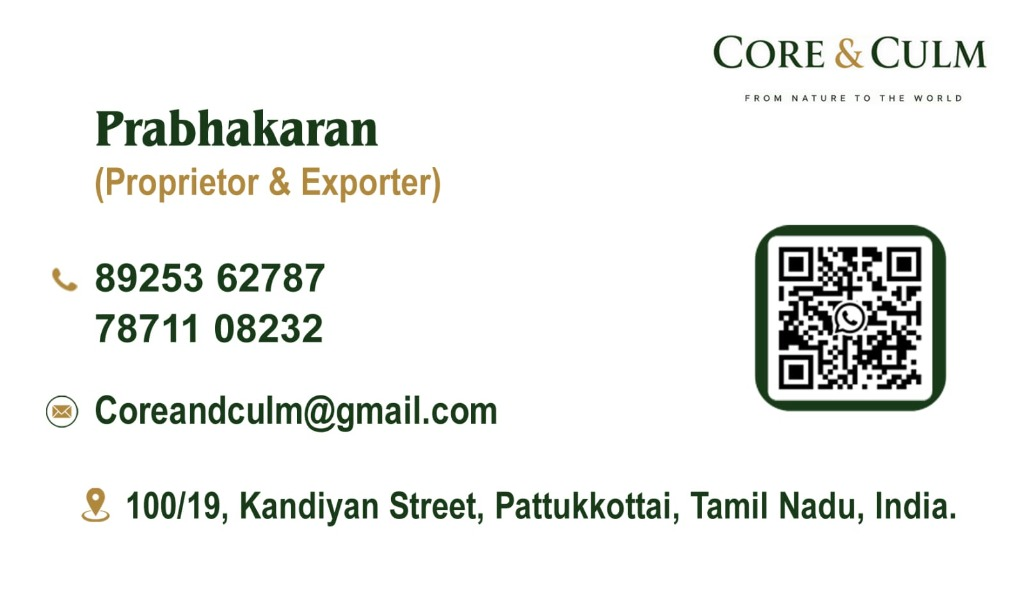
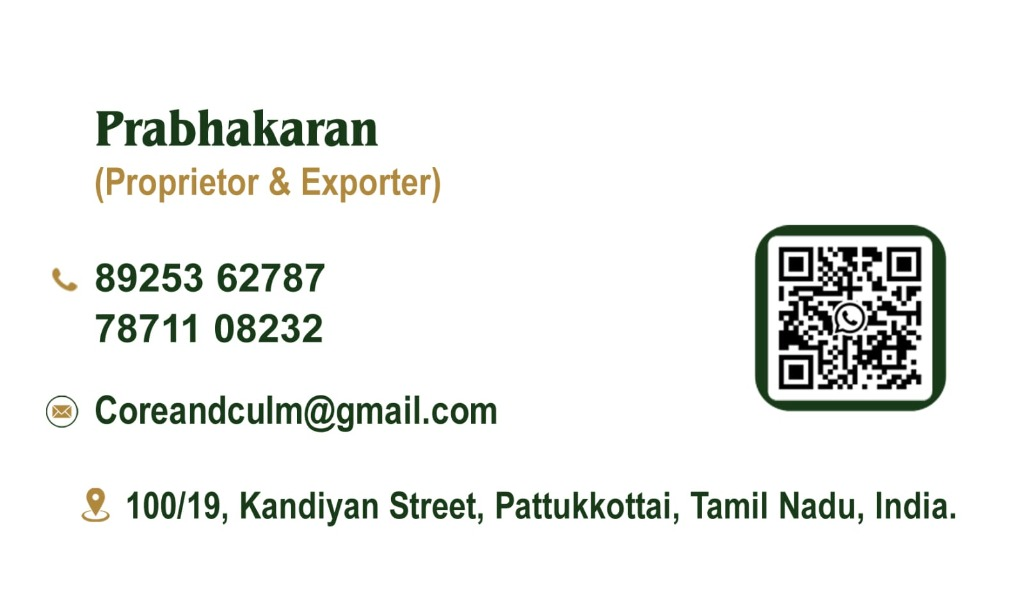
Update theme to luxury Agro-Export style and remove GST text

Changed region(s): [[0.6875, 0.0602, 0.9688, 0.1204], [0.7188, 0.1505, 0.9375, 0.1806]]

diff --git a/src/components/AboutView.tsx b/src/components/AboutView.tsx
@@ -2,7 +2,21 @@
 
 import React from 'react';
 import { CONTACT_INFO } from '@/data/shipyonData';
-import { Compass, Target, ShieldCheck, Award, MapPin } from 'lucide-react';
+import {
+  Compass,
+  Target,
+  ShieldCheck,
+  Award,
+  MapPin,
+  Phone,
+  Mail,
+  CheckCircle2,
+  Globe2,
+  Anchor,
+  MessageCircle,
+  ArrowRight,
+  Sprout,
+} from 'lucide-react';
 
 interface AboutViewProps {
   onNavigate: (page: string) => void;
@@ -10,78 +24,122 @@ interface AboutViewProps {
 
 export const AboutView: React.FC<AboutViewProps> = ({ onNavigate }) => {
   return (
-    <div className="pt-28 pb-20 bg-[#F8F5F0]">
+    <div className="pt-28 pb-24 bg-gradient-to-b from-slate-50 via-emerald-50/20 to-slate-50 relative overflow-hidden">
+      {/* Decorative ambient background glows */}
+      <div className="absolute top-10 left-1/2 -translate-x-1/2 w-[800px] h-[400px] bg-gradient-to-b from-emerald-200/20 to-transparent rounded-full blur-3xl pointer-events-none -z-10" />
+      <div className="absolute top-96 right-0 w-[500px] h-[500px] bg-emerald-100/30 rounded-full blur-3xl pointer-events-none -z-10" />
+
       {/* Page Hero */}
       <div className="max-w-7xl mx-auto px-4 sm:px-6 lg:px-8 mb-16">
         <div className="text-center max-w-3xl mx-auto">
-          <div className="inline-flex items-center gap-2 px-3.5 py-1.5 rounded-full bg-brand-100 text-brand-800 text-xs font-bold uppercase tracking-wider mb-4">
-            <span className="w-2 h-2 rounded-full bg-brand-600" />
-            <span>About CORE &amp; CULM™</span>
+          <div className="inline-flex items-center gap-2 px-4 py-1.5 rounded-full bg-emerald-50 border border-emerald-200/80 shadow-sm text-emerald-800 text-xs font-bold uppercase tracking-wider mb-5">
+            <span className="relative flex h-2 w-2">
+              <span className="animate-ping absolute inline-flex h-full w-full rounded-full bg-emerald-400 opacity-75"></span>
+              <span className="relative inline-flex rounded-full h-2 w-2 bg-emerald-600"></span>
+            </span>
+            <span>About CORE &amp; CULM™ &bull; Pattukkottai Global Desk</span>
           </div>
-          <h1 className="text-4xl sm:text-5xl font-black text-slate-900 tracking-tight mb-4">
-            Nature&apos;s Strength. <span className="text-brand-600">Global Reach.</span>
+
+          <h1 className="text-4xl sm:text-5xl lg:text-6xl font-black text-slate-900 tracking-tight mb-5 leading-tight">
+            Nature&apos;s Strength.{' '}
+            <span className="bg-gradient-to-r from-emerald-600 via-teal-600 to-amber-600 bg-clip-text text-transparent">
+              Global Reach.
+            </span>
           </h1>
+
           <p className="text-base sm:text-lg text-slate-600 leading-relaxed font-normal">
-            Rooted in the agricultural heartland of <strong>Pattukkottai, Tamil Nadu</strong>, CORE &amp; CULM was founded to bridge local farmers directly to international container vessels.
+            Rooted in the agricultural heartland of{' '}
+            <strong className="text-slate-900 font-semibold">Pattukkottai, Tamil Nadu</strong>, CORE &amp; CULM was founded to bridge heritage growers directly to international container vessels across 50+ destination ports worldwide.
           </p>
         </div>
       </div>
 
-      {/* Official Business Presentation */}
-      <div className="max-w-5xl mx-auto px-4 sm:px-6 lg:px-8 mb-20">
-        <div className="rounded-3xl overflow-hidden shadow-2xl border-4 border-white bg-white">
-          <img
-            src={CONTACT_INFO.images.brandBanner}
-            alt="CORE & CULM Brand Presentation"
-            className="w-full h-auto object-cover"
-          />
+      {/* Official Business Presentation Banner */}
+      <div className="max-w-5xl mx-auto px-4 sm:px-6 lg:px-8 mb-24">
+        <div className="relative group">
+          {/* Ambient light glow behind the card */}
+          <div className="absolute -inset-1 bg-gradient-to-r from-emerald-500/25 via-teal-500/20 to-amber-500/25 rounded-3xl blur-2xl opacity-70 group-hover:opacity-100 transition duration-1000 -z-10" />
+
+          {/* Presentation Card */}
+          <div className="rounded-3xl overflow-hidden shadow-2xl border border-slate-200/90 bg-white p-2 sm:p-4 transition-all duration-300">
+            <div className="relative rounded-2xl overflow-hidden bg-white">
+              <img
+                src={CONTACT_INFO.images.brandBanner}
+                alt="CORE & CULM Brand Presentation"
+                className="w-full h-auto object-cover transform hover:scale-[1.01] transition-transform duration-500"
+              />
+            </div>
+
+            {/* Quality Commitment Ribbon */}
+            <div className="mt-3 pt-3 border-t border-slate-100 grid grid-cols-2 sm:grid-cols-4 gap-3 px-2 text-center">
+              <div className="flex items-center justify-center gap-1.5 text-xs font-semibold text-slate-700 py-1">
+                <Sprout className="w-4 h-4 text-emerald-600 flex-shrink-0" />
+                <span>Direct Farm Sourcing</span>
+              </div>
+              <div className="flex items-center justify-center gap-1.5 text-xs font-semibold text-slate-700 py-1">
+                <ShieldCheck className="w-4 h-4 text-emerald-600 flex-shrink-0" />
+                <span>100% Export Grade</span>
+              </div>
+              <div className="flex items-center justify-center gap-1.5 text-xs font-semibold text-slate-700 py-1">
+                <Anchor className="w-4 h-4 text-emerald-600 flex-shrink-0" />
+                <span>Ocean Freight Ready</span>
+              </div>
+              <div className="flex items-center justify-center gap-1.5 text-xs font-semibold text-slate-700 py-1">
+                <Globe2 className="w-4 h-4 text-emerald-600 flex-shrink-0" />
+                <span>Worldwide Delivery</span>
+              </div>
+            </div>
+          </div>
         </div>
       </div>
 
       {/* Vision & Mission Panes */}
-      <div className="max-w-7xl mx-auto px-4 sm:px-6 lg:px-8 mb-20">
+      <div className="max-w-7xl mx-auto px-4 sm:px-6 lg:px-8 mb-24">
         <div className="grid grid-cols-1 md:grid-cols-2 gap-8">
           {/* Vision */}
-          <div className="p-8 sm:p-10 rounded-3xl bg-white border border-slate-200/80 shadow-lg flex flex-col justify-between">
+          <div className="p-8 sm:p-10 rounded-3xl bg-white/90 backdrop-blur-md border border-slate-200/80 shadow-lg hover:shadow-xl hover:border-emerald-300/80 transition-all duration-300 flex flex-col justify-between group">
             <div>
-              <div className="w-14 h-14 rounded-2xl bg-brand-50 text-brand-700 flex items-center justify-center mb-6">
+              <div className="w-14 h-14 rounded-2xl bg-gradient-to-br from-emerald-50 to-emerald-100 text-emerald-700 flex items-center justify-center mb-6 shadow-sm border border-emerald-200/60 group-hover:scale-105 transition-transform">
                 <Compass className="w-7 h-7" />
               </div>
-              <span className="text-xs font-bold uppercase tracking-widest text-brand-600">
+              <span className="text-xs font-bold uppercase tracking-widest text-emerald-700">
                 Our Vision
               </span>
               <h3 className="text-2xl font-black text-slate-900 mt-1 mb-4">
                 Redefining Agricultural Exports from South India
               </h3>
-              <p className="text-sm text-slate-600 leading-relaxed">
-                To establish South Indian agricultural commodities—especially Pattukkottai matured coconuts, shallots, spices, and coir—as world-class export benchmarks through unyielding quality assurance and direct farm partnerships.
+              <p className="text-sm text-slate-600 leading-relaxed font-normal">
+                To establish South Indian agricultural commodities—especially Pattukkottai matured coconuts, shallots, spices, and coir—as world-class export benchmarks through unyielding quality assurance, cold-chain integrity, and direct farm partnerships.
               </p>
             </div>
-            <div className="mt-8 pt-4 border-t border-slate-100 flex items-center gap-2 text-xs font-semibold text-slate-500">
-              <ShieldCheck className="w-4 h-4 text-brand-600" />
+            <div className="mt-8 pt-4 border-t border-slate-100 flex items-center gap-2 text-xs font-semibold text-emerald-800">
+              <ShieldCheck className="w-4 h-4 text-emerald-600" />
               <span>100% Farm-to-Freight Traceability</span>
             </div>
           </div>
 
           {/* Mission */}
-          <div className="p-8 sm:p-10 rounded-3xl bg-slate-900 text-white shadow-xl flex flex-col justify-between">
-            <div>
-              <div className="w-14 h-14 rounded-2xl bg-brand-500 text-slate-950 flex items-center justify-center mb-6 font-bold">
+          <div className="p-8 sm:p-10 rounded-3xl bg-gradient-to-br from-[#064E3B] via-[#022C22] to-[#011C15] text-white shadow-2xl border border-emerald-800/40 hover:border-emerald-500/50 transition-all duration-300 flex flex-col justify-between relative overflow-hidden group">
+            {/* Subtle inner radial glow */}
+            <div className="absolute -top-24 -right-24 w-64 h-64 bg-emerald-500/15 rounded-full blur-3xl pointer-events-none" />
+
+            <div className="relative z-10">
+              <div className="w-14 h-14 rounded-2xl bg-emerald-500/20 border border-emerald-400/30 text-emerald-300 flex items-center justify-center mb-6 shadow-sm group-hover:scale-105 transition-transform">
                 <Target className="w-7 h-7" />
               </div>
-              <span className="text-xs font-bold uppercase tracking-widest text-brand-400">
+              <span className="text-xs font-bold uppercase tracking-widest text-amber-400">
                 Our Mission
               </span>
               <h3 className="text-2xl font-black text-white mt-1 mb-4">
                 Seamless Global Supply Chains for Every Harvest
               </h3>
-              <p className="text-sm text-slate-300 leading-relaxed">
+              <p className="text-sm text-slate-300 leading-relaxed font-normal">
                 To eliminate intermediary delays, enforce cold-chain integrity from farm packing houses to maritime container terminals, and provide transparent FOB / CIF agreements to global food processors and distributors.
               </p>
             </div>
-            <div className="mt-8 pt-4 border-t border-slate-800 flex items-center gap-2 text-xs font-semibold text-brand-300">
-              <Award className="w-4 h-4 text-brand-400" />
-              <span>APEDA, FSSAI &amp; Spices Board Compliance</span>
+            <div className="mt-8 pt-4 border-t border-slate-800 flex items-center gap-2 text-xs font-semibold text-emerald-300 relative z-10">
+              <Award className="w-4 h-4 text-amber-400" />
+              <span>APEDA, FSSAI, Spices Board &amp; DGFT Compliance</span>
             </div>
           </div>
         </div>
@@ -89,8 +147,8 @@ export const AboutView: React.FC<AboutViewProps> = ({ onNavigate }) => {
 
       {/* Leadership Profile: Prabhakaran */}
       <div className="max-w-5xl mx-auto px-4 sm:px-6 lg:px-8">
-        <div className="p-8 sm:p-12 rounded-3xl bg-white border border-slate-200/90 shadow-xl flex flex-col md:flex-row items-center gap-8">
-          <div className="w-full md:w-1/2 rounded-2xl overflow-hidden shadow-md border border-slate-100">
+        <div className="p-8 sm:p-12 rounded-3xl bg-white border border-slate-200/90 shadow-xl flex flex-col md:flex-row items-center gap-10 hover:shadow-2xl transition-all duration-300">
+          <div className="w-full md:w-1/2 rounded-2xl overflow-hidden shadow-md border border-slate-100 bg-white">
             <img
               src={CONTACT_INFO.images.businessCard}
               alt="Prabhakaran Business Card"
@@ -99,33 +157,59 @@ export const AboutView: React.FC<AboutViewProps> = ({ onNavigate }) => {
           </div>
 
           <div className="w-full md:w-1/2 flex flex-col">
-            <span className="text-xs font-bold uppercase tracking-widest text-brand-600 mb-1">
-              Leadership &amp; Founder
-            </span>
+            <div className="inline-flex items-center gap-2 text-xs font-bold uppercase tracking-widest text-emerald-700 mb-1">
+              <Award className="w-4 h-4 text-amber-500" />
+              <span>Leadership &amp; Founder</span>
+            </div>
             <h2 className="text-3xl font-black text-slate-900 mb-1">
               {CONTACT_INFO.proprietor}
             </h2>
-            <span className="text-sm font-semibold text-brand-700 mb-4">
+            <span className="text-sm font-semibold text-emerald-700 mb-4">
               {CONTACT_INFO.designation} &bull; CORE &amp; CULM™
             </span>
-            <p className="text-xs sm:text-sm text-slate-600 leading-relaxed mb-6">
+            <p className="text-xs sm:text-sm text-slate-600 leading-relaxed mb-6 font-normal">
               Leading the company with deep agricultural roots in Pattukkottai and Thanjavur. Overseeing direct sourcing from grower cooperatives, strict phytosanitary audits, container stuffing, and maritime coordination.
             </p>
 
-            <div className="space-y-2 text-xs text-slate-700 pt-4 border-t border-slate-100">
-              <div><strong>Registered Office:</strong> {CONTACT_INFO.address.fullText}</div>
-              <div><strong>GSTIN:</strong> <span className="font-mono font-bold text-brand-700">{CONTACT_INFO.gst}</span></div>
-              <div><strong>Phones:</strong> {CONTACT_INFO.phones[0].number} / {CONTACT_INFO.phones[1].number}</div>
-              <div><strong>Email:</strong> {CONTACT_INFO.emails[0]}</div>
+            <div className="space-y-2.5 text-xs text-slate-700 pt-4 border-t border-slate-100">
+              <div className="flex items-start gap-2">
+                <MapPin className="w-4 h-4 text-emerald-600 flex-shrink-0 mt-0.5" />
+                <span><strong>Registered Office:</strong> {CONTACT_INFO.address.fullText}</span>
+              </div>
+              <div className="flex items-center gap-2">
+                <ShieldCheck className="w-4 h-4 text-emerald-600 flex-shrink-0" />
+                <span><strong>Certifications:</strong> APEDA &bull; FSSAI &bull; Spices Board &bull; DGFT</span>
+              </div>
+              <div className="flex items-center gap-2">
+                <Phone className="w-4 h-4 text-emerald-600 flex-shrink-0" />
+                <span><strong>Direct Lines:</strong> {CONTACT_INFO.phones[0].number} / {CONTACT_INFO.phones[1].number}</span>
+              </div>
+              <div className="flex items-center gap-2">
+                <Mail className="w-4 h-4 text-emerald-600 flex-shrink-0" />
+                <span><strong>Email:</strong> {CONTACT_INFO.emails[0]}</span>
+              </div>
             </div>
 
-            <div className="mt-6">
+            <div className="mt-8 flex flex-wrap items-center gap-3">
               <button
                 onClick={() => onNavigate('contact')}
-                className="px-6 py-2.5 rounded-xl font-bold text-xs bg-brand-600 hover:bg-brand-700 text-white shadow-md transition-all"
+                className="px-6 py-2.5 rounded-xl font-bold text-xs bg-emerald-600 hover:bg-emerald-700 text-white shadow-md hover:shadow-lg transition-all flex items-center gap-1.5"
               >
-                Get in Touch with Prabhakaran
+                <span>Connect with Prabhakaran</span>
+                <ArrowRight className="w-3.5 h-3.5" />
               </button>
+
+              <a
+                href={`https://wa.me/${CONTACT_INFO.whatsapp}?text=${encodeURIComponent(
+                  'Hello Prabhakaran (CORE & CULM), I would like to inquire about agricultural export commodities.'
+                )}`}
+                target="_blank"
+                rel="noopener noreferrer"
+                className="px-4 py-2.5 rounded-xl font-bold text-xs bg-emerald-50 hover:bg-emerald-100 text-emerald-800 border border-emerald-200/80 shadow-sm transition-all flex items-center gap-1.5"
+              >
+                <MessageCircle className="w-3.5 h-3.5 text-emerald-600" />
+                <span>WhatsApp Desk</span>
+              </a>
             </div>
           </div>
         </div>

diff --git a/tailwind.config.js b/tailwind.config.js
@@ -9,17 +9,29 @@ module.exports = {
     extend: {
       colors: {
         brand: {
-          50: '#f0fdf4',
-          100: '#dcfce7',
-          200: '#bbf7d0',
-          300: '#86efac',
-          400: '#4ade80',
-          500: '#22c55e',
-          600: '#16a34a', // Shipyon emerald
-          700: '#15803d',
-          800: '#166534',
-          900: '#14532d',
-          950: '#052e16',
+          50: '#ecfdf5',
+          100: '#d1fae5',
+          200: '#a7f3d0',
+          300: '#6ee7b7',
+          400: '#34d399',
+          500: '#10b981',
+          600: '#059669', // Deep luxurious emerald
+          700: '#047857',
+          800: '#065f46',
+          900: '#064e3b',
+          950: '#022c22',
+        },
+        gold: {
+          50: '#fffbeb',
+          100: '#fef3c7',
+          200: '#fde68a',
+          300: '#fcd34d',
+          400: '#fbbf24',
+          500: '#f59e0b',
+          600: '#d97706',
+          700: '#b45309',
+          800: '#92400e',
+          900: '#78350f',
         },
         slate: {
           850: '#151f32',

diff --git a/src/app/layout.tsx b/src/app/layout.tsx
@@ -5,7 +5,7 @@ export const metadata: Metadata = {
   metadataBase: new URL('https://coreandculm.com'),
   title: "CORE & CULM™ – Nature's Strength. Global Reach.",
   description:
-    'CORE & CULM connects trusted South Indian producers to global markets. Export-grade semi-husked coconuts, shallots, world-class spices, fresh drumsticks, and coir products. Proprietor & Exporter: Prabhakaran. GST: 33EBBPG3505C1ZH. Pattukkottai, Tamil Nadu.',
+    'CORE & CULM connects trusted South Indian producers to global markets. Export-grade semi-husked coconuts, shallots, world-class spices, fresh drumsticks, and coir products. Proprietor & Exporter: Prabhakaran. Pattukkottai, Tamil Nadu.',
   keywords: [
     'CORE & CULM',
     'Core and Culm',
@@ -15,7 +15,7 @@ export const metadata: Metadata = {
     'shallots export Tamil Nadu',
     'spices export South India',
     'farm to freight',
-    'GST 33EBBPG3505C1ZH',
+    'certified agricultural exporter India',
   ],
   authors: [{ name: 'Prabhakaran (Core & Culm)' }],
   openGraph: {

diff --git a/src/components/QuoteModal.tsx b/src/components/QuoteModal.tsx
@@ -166,7 +166,7 @@ export const QuoteModal: React.FC<QuoteModalProps> = ({
             <div className="mb-6">
               <div className="flex items-center gap-2 text-brand-600 text-xs font-bold uppercase tracking-wider mb-1">
                 <Ship className="w-4 h-4" />
-                <span>CORE &amp; CULM™ Export Desk &bull; GST: {CONTACT_INFO.gst}</span>
+                <span>CORE &amp; CULM™ Export Desk &bull; Certified Global Exporter</span>
               </div>
               <h2 className="text-2xl sm:text-3xl font-black text-slate-900 tracking-tight">
                 Request Official Export Quotation

diff --git a/src/components/LeadershipSection.tsx b/src/components/LeadershipSection.tsx
@@ -17,7 +17,7 @@ export const LeadershipSection: React.FC = () => {
       role: 'Export Regulatory & Logistics',
       image: CONTACT_INFO.images.logoIcon,
       description:
-        `Ensures all operations meet statutory standards (GSTIN: ${CONTACT_INFO.gst}, APEDA, FSSAI, Spices Board), managing maritime freight and cold-chain integrity from South Indian container ports.`,
+        'Ensures all operations meet statutory international standards (APEDA, FSSAI, Spices Board, DGFT), managing maritime freight and cold-chain integrity from South Indian container ports.',
     },
   ];
 

diff --git a/src/data/shipyonData.ts b/src/data/shipyonData.ts
@@ -361,7 +361,7 @@ export const TRADE_CORRIDORS = [
 ];
 
 export const CERTIFICATIONS = [
-  { name: 'GST REGISTERED', desc: 'GSTIN: 33EBBPG3505C1ZH (Govt of India)' },
+  { name: 'GOVT RECOGNIZED', desc: 'Ministry of Commerce & Industry Certified Export House' },
   { name: 'APEDA', desc: 'Agricultural & Processed Food Products Export Development Authority' },
   { name: 'Spices Board India', desc: 'Ministry of Commerce & Industry, Govt of India' },
   { name: 'FSSAI Export Certified', desc: 'Food Safety and Standards Authority of India' },

diff --git a/src/components/ContactView.tsx b/src/components/ContactView.tsx
@@ -14,7 +14,7 @@ export const ContactView: React.FC<ContactViewProps> = ({
   onNewLogAdded,
 }) => {
   return (
-    <div className="pt-24 pb-12 bg-[#F8F5F0]">
+    <div className="pt-24 pb-16 bg-gradient-to-b from-slate-50 via-emerald-50/20 to-slate-50">
       {/* Contact Page Hero */}
       <div className="max-w-7xl mx-auto px-4 sm:px-6 lg:px-8 pt-8 pb-4 text-center">
         <div className="inline-flex items-center gap-2 px-3.5 py-1.5 rounded-full bg-brand-100 text-brand-800 text-xs font-bold uppercase tracking-wider mb-4">

diff --git a/src/app/globals.css b/src/app/globals.css
@@ -5,9 +5,10 @@
 @import url('https://fonts.googleapis.com/css2?family=Inter:wght@300;400;500;600;700;800&family=Outfit:wght@400;500;600;700;800;900&display=swap');
 
 :root {
-  --primary-dark-green: #16a34a;
-  --primary-green: #22c55e;
-  --light-green: #dcfce7;
+  --primary-dark-green: #065f46;
+  --primary-green: #059669;
+  --light-green: #ecfdf5;
+  --gold-accent: #d97706;
   --text-dark: #0f172a;
   --text-gray: #64748b;
   --gray-50: #f8fafc;

diff --git a/src/app/page.tsx b/src/app/page.tsx
@@ -25,7 +25,7 @@ export default function HomePage() {
   };
 
   return (
-    <div className="min-h-screen bg-[#F8F5F0] flex flex-col relative text-slate-900">
+    <div className="min-h-screen bg-slate-50 flex flex-col relative text-slate-900">
       {/* Header Pill Navigation */}
       <Header
         currentPage={currentPage}
